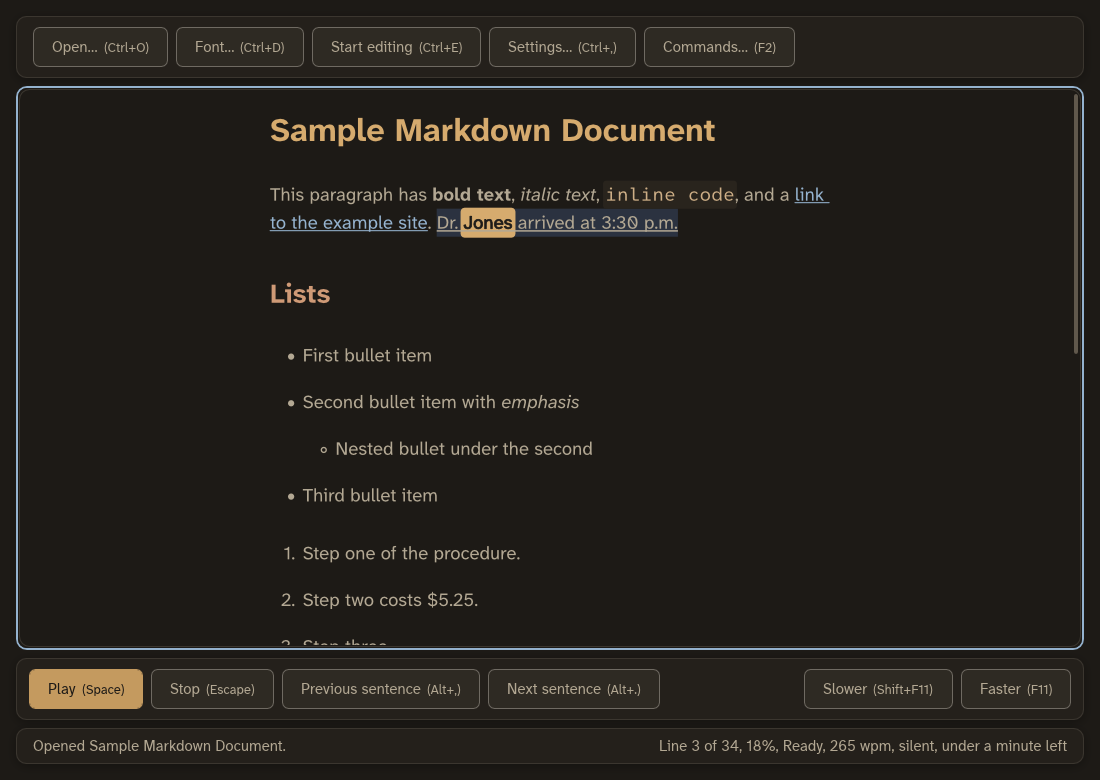
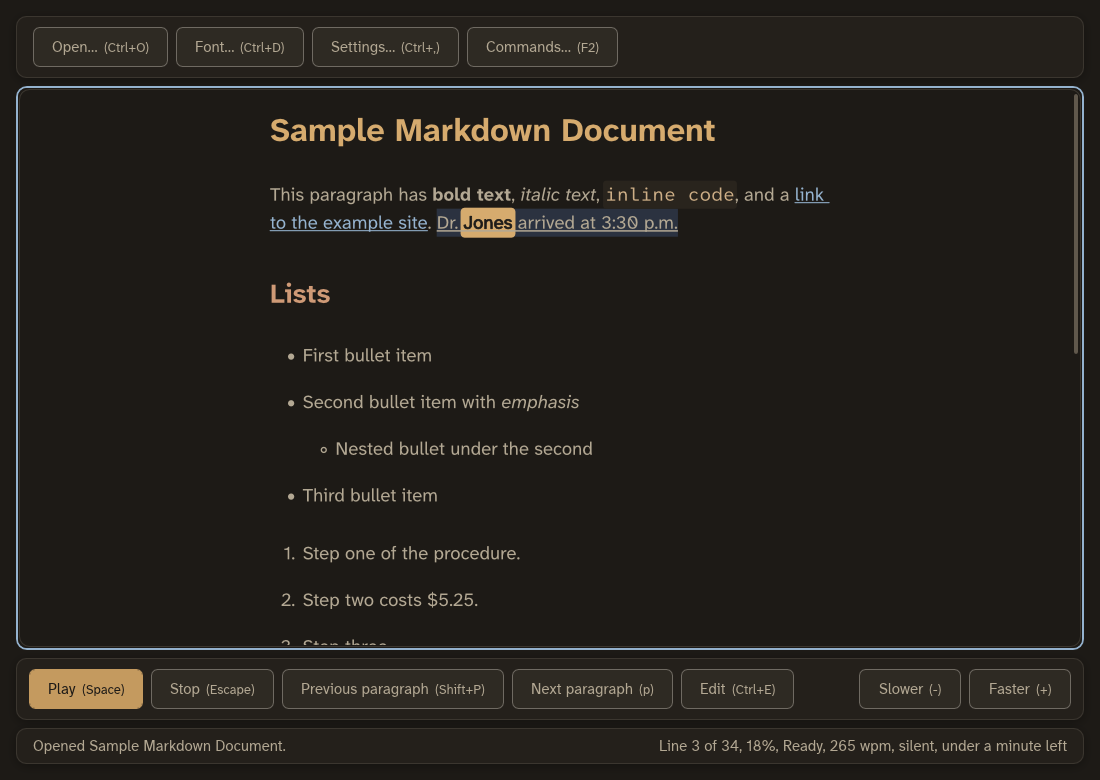
Docs: the window pictures redrawn with Edit on the toolbar
The eight pictures in docs/images are redrawn with the review harness
(textweaver --review-screenshots, Vello's CPU renderer, fresh settings,
fixtures/sample.md) and copied under their curated names. The
descriptions follow what they now show: the header without Edit, the
toolbar's paragraph buttons and Edit, Done editing (Ctrl+E, Escape) in
edit mode, the narrow window's three rows, and the Settings filter's
visible section name.

diff --git a/docs/window-in-pictures.md b/docs/window-in-pictures.md
@@ -14,7 +14,7 @@ textweaver --review-screenshots target/review-screenshots fixtures/sample.md
 
 ![The reading view in the Galaxy theme: the sample document in a centered column, the spoken word highlighted](images/gui-galaxy.png)
 
-Description: dark gray window, the default Galaxy theme. The header has the buttons Open, Font, Start editing, Settings and Commands, each with its key. The document fills the middle in a centered column, framed in purple because it has the focus: the purple title "Sample Markdown Document", a paragraph with bold, italic, code and a link, the heading "Lists", bullets with a nested one, and a numbered list. The reading toolbar below has Play (filled purple, the main action), Stop, Previous sentence, Next sentence, Slower and Faster. The word "Jones" has a solid lilac band, and its sentence a paler band with a line under it. The status bar says "Opened Sample Markdown Document." on the left and "Line 3 of 34, 18%, Ready, 265 wpm, silent, under a minute left" on the right.
+Description: dark gray window, the default Galaxy theme. The header has the buttons Open, Font, Settings and Commands, each with its key. The document fills the middle in a centered column, framed in purple because it has the focus: the purple title "Sample Markdown Document", a paragraph with bold, italic, code and a link, the heading "Lists", bullets with a nested one, and a numbered list. The reading toolbar below has Play (filled purple, the main action), Stop, Previous paragraph, Next paragraph and Edit, with Slower and Faster at the right. The word "Jones" has a solid lilac band, and its sentence a paler band with a line under it. The status bar says "Opened Sample Markdown Document." on the left and "Line 3 of 34, 18%, Ready, 265 wpm, silent, under a minute left" on the right.
 
 ## Reading, in Galaxy Light
 
@@ -38,13 +38,13 @@ Description: the reading view in Lamplight, the soft dark theme: dark brown pane
 
 ![The window at 780 by 540 pixels: one folded bar with two rows of buttons above the document](images/gui-narrow-780x540.png)
 
-Description: the window at 780 by 540 pixels, just under the folding width. Below 800 pixels wide, the header and the toolbar fold into one bar above the document, and the buttons hide their keys. The bar holds two rows of buttons: Open, Font, Start editing, Settings and Commands, then Play, Stop, Previous sentence and Next sentence, with Slower and Faster at the right. The document shows the title, the first paragraph and the start of the list, and the status bar fits on one line.
+Description: the window at 780 by 540 pixels, just under the folding width. Below 800 pixels wide, the header and the toolbar fold into one bar above the document, and the buttons hide their keys. The bar holds three rows of buttons: Open, Font, Settings and Commands; then Play, Stop, Previous paragraph, Next paragraph and Edit; then Slower and Faster. The document shows the title, the first paragraph and the start of the list, and the status bar fits on one line.
 
 ## Settings, with a filter
 
 ![The Settings dialog with the filter "voice" typed: a section of 16 matching settings](images/gui-settings-filter.png)
 
-Description: the Settings dialog over the dimmed window, with "voice" typed as a filter. The first section in the list on the left is now "Matching voice, 16 settings", selected, and the other sections follow. On the right are the matching settings: Pitch (selected, "0 semitones"), Voice, Preferred voice, Favorite voices, Voices by language, OneCore voices ("on" with its switch), Piper voices folder, Piper voice, and Rate and pitch per voice. The section's name says what was typed.
+Description: the Settings dialog over the dimmed window, with "voice" typed as a filter. The first section in the list on the left is now "Matching voice", selected (a screen reader hears "Matching voice, 16 settings"), and the other sections follow. On the right are the matching settings: Pitch (selected, "0 semitones"), Voice, Preferred voice, Favorite voices, Voices by language, OneCore voices ("on" with its switch), Piper voices folder, Piper voice, and Rate and pitch per voice. The section's name says what was typed.
 
 ## The Reading settings dialog
 
@@ -56,7 +56,7 @@ Description: a dialog titled "Reading settings" with one list: Rate (selected, "
 
 ![Edit mode in Galaxy: the Markdown source in a dashed frame with an Editing badge](images/gui-edit-mode.png)
 
-Description: after Start editing, the document's frame turns dashed and an "Editing" badge sits in its top right corner. The document shows its Markdown source: the front matter between two lines of dashes, then "# Sample Markdown Document" with the caret after the number sign. Markup stays visible and styled (bold, italic, code and the link), and list lines start with their own dashes. The header's button now says "Finish editing (Ctrl+E)", and the status bar says "Edit mode on. Save: Ctrl+S. Finish: Ctrl+E." and "Line 6 of 45, Edit, Ready, 7%".
+Description: after Edit, the document's frame turns dashed and an "Editing" badge sits in its top right corner. The document shows its Markdown source: the front matter between two lines of dashes, then "# Sample Markdown Document" with the caret after the number sign. Markup stays visible and styled (bold, italic, code and the link), and list lines start with their own dashes. On the toolbar, the Edit button now says "Done editing (Ctrl+E, Escape)", and the toolbar wraps, with Slower and Faster on a second row. The status bar says "Edit mode on. Save: Ctrl+S. Finish: Ctrl+E." and the heading line, and on the right "Line 6 of 45, Edit, Ready, 7%". The picture has no Start dictation button, because the drawing harness does not set up dictation; in the app it stands directly after Done editing.
 
 ## See also
 
